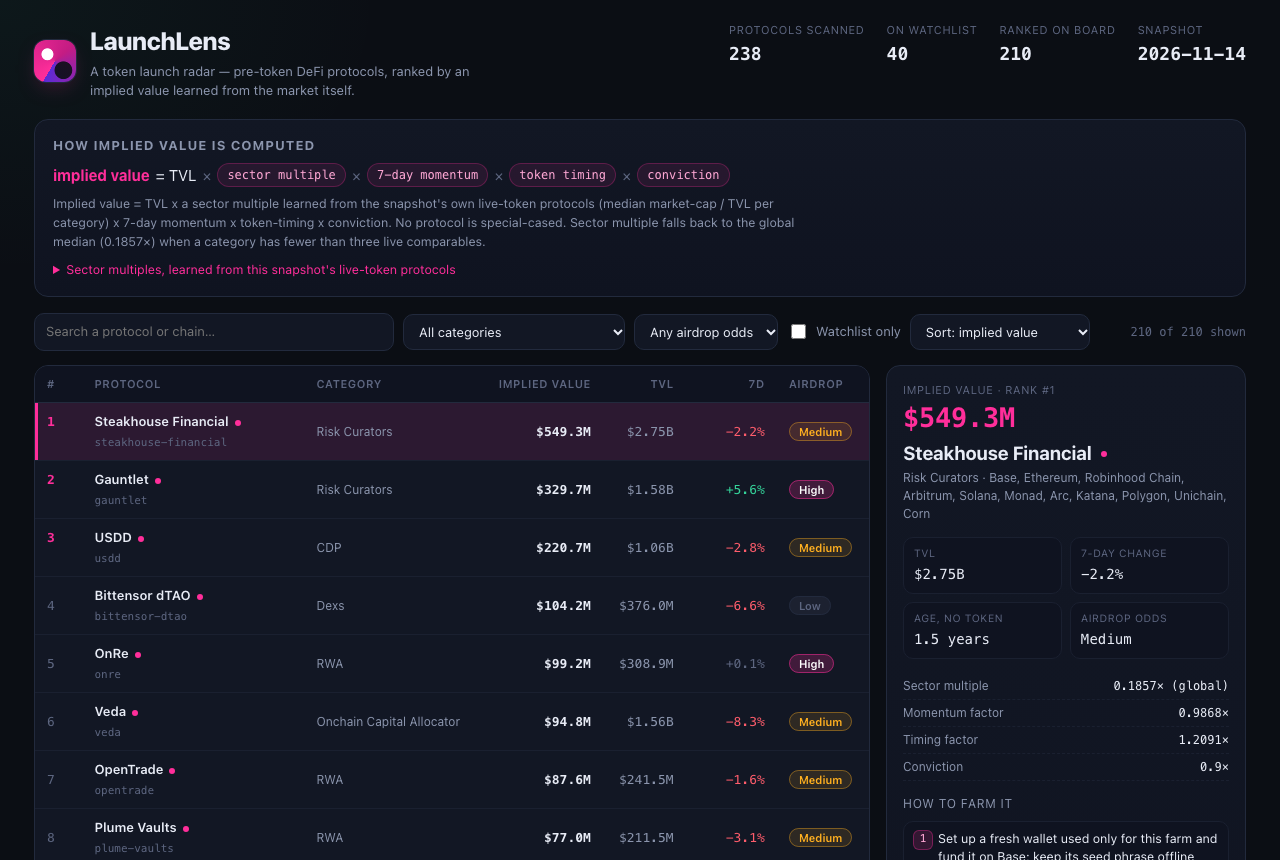
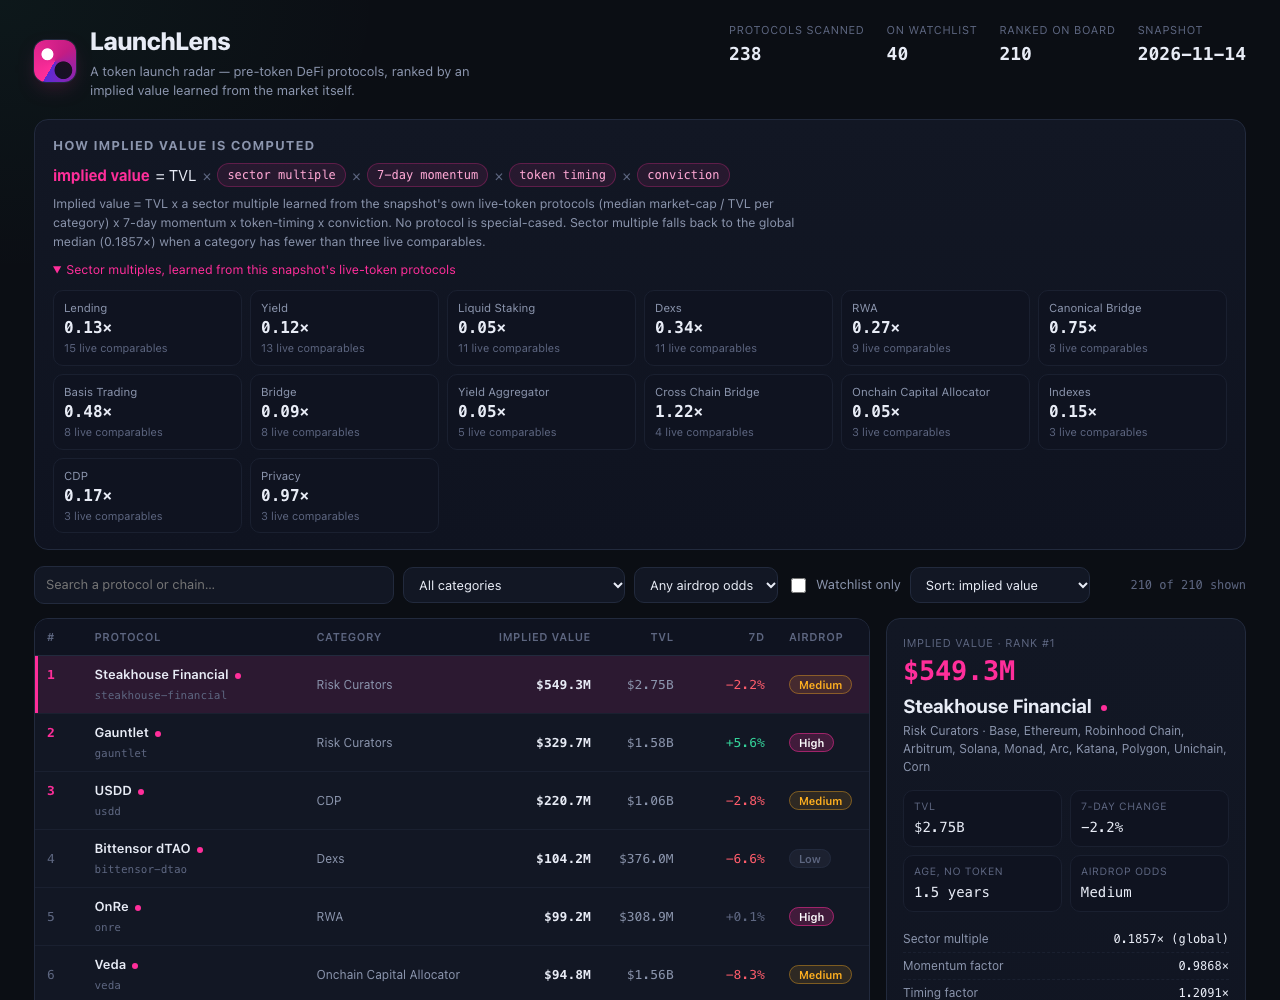
Strengthen value-model legibility: static methodology in source, clean sector multiples, sector panel open by default

diff --git a/dashboard/index.html b/dashboard/index.html
@@ -23,6 +23,24 @@
     </dl>
   </header>
 
+  <!--
+    Methodology (for the reader, and legible in source). Every number below is derived from the sealed
+    snapshot's own figures; no protocol is ever special-cased by name.
+
+      implied_value(p) = p.tvl_usd
+                       × sectorMultiple(p)   // median (market cap / TVL) of LIVE-token protocols in p's
+                                             //   category, learned from the snapshot itself; falls back
+                                             //   to the global median when a category has < 3 comparables.
+                                             //   Clamped to 0.05×..2.0× so one outlier cannot dominate.
+                       × momentum(p)         // 1 + clamp(change_7d, -50%, +150%)/100 × 0.6
+                       × timing(p)           // 0.80..1.35, rising with days listed and still no token
+                       × conviction(p)       // 0.70..1.00, higher for larger TVL, a known age, a deep sector
+
+    The board separates pre-token protocols (ranked by implied value) from live-token ones (shown at the
+    market's own value, in the Sector multiples panel, never mixed into the ranking). The watchlist is a
+    floor, not a ceiling: the board also ranks the largest pre-token protocols below the floor — the early
+    finds the radar exists to surface. See learnSectors() and value() in the model behind data.js.
+  -->
   <section class="model" aria-label="How the value is computed">
     <h2>How implied value is computed</h2>
     <p class="formula">
@@ -32,8 +50,8 @@
       <span class="x">×</span> <span class="chip">token timing</span>
       <span class="x">×</span> <span class="chip">conviction</span>
     </p>
-    <p id="model-note" class="note"></p>
-    <details class="sectors">
+    <p id="model-note" class="note">The sector multiple is <b>learned from this snapshot's own live-token protocols</b> — the median market-cap ÷ TVL for each category — so a pre-token protocol is valued at what the market already pays for a dollar of TVL in its sector, not a hardcoded guess. Momentum rewards 7-day TVL growth, timing rewards protocols that have run longer with no token, and conviction scales with size and data depth. No protocol is special-cased by name.</p>
+    <details class="sectors" open>
       <summary>Sector multiples, learned from this snapshot's live-token protocols</summary>
       <div id="sector-table" class="sector-grid"></div>
     </details>

diff --git a/lib/model.ts b/lib/model.ts
@@ -425,7 +425,7 @@ export function buildRadar(snapshot: Snapshot): { board: BoardRow[]; radar: Rada
   const early = board.filter((r) => !r.on_watchlist).length;
   const sectorList = Object.entries(sectors.byCategory)
     .filter(([, v]) => v.comparables >= MODEL.sector_min_comparables)
-    .map(([category, v]) => ({ category, multiple: v.multiple, comparables: v.comparables }))
+    .map(([category, v]) => ({ category, multiple: Math.round(v.multiple * 100) / 100, comparables: v.comparables }))
     .sort((a, b) => b.comparables - a.comparables);
   const radar: RadarData = {
     as_of: snapshot.as_of,
